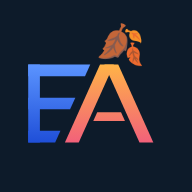
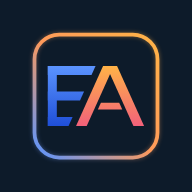
Icône de l'application : monogramme EA dans un cadre arrondi dégradé
- elite-adapt-icon.svg : EA dans un encadrement rond au contour dégradé
  bleu (bas-gauche) → orange (haut-droite), léger halo, sur fond sombre.
- PNG 192/512/180/32 régénérés.
- Manifeste : icônes en purpose "any" (plus de maskable) pour que le cadre
  ne soit pas rogné en cercle par le téléphone. Cache ?v=ea7, SW v7.

Claude-Session: https://claude.ai/code/session_01QakTk93iYZvV64rPhYwZKN

Changed region(s): [[0.125, 0.0938, 0.8438, 0.8438]]

diff --git a/index.html b/index.html
@@ -29,9 +29,9 @@
 <meta name="twitter:title" content="Elite Adapt - Suivi Sportif">
 <meta name="twitter:description" content="Coaching, programmes, RPE, wellness et nutrition.">
 <meta name="twitter:image" content="https://blueperf.vercel.app/og-image.png">
-<link rel="icon" href="/elite-adapt-icon.svg?v=ea6" type="image/svg+xml">
-<link rel="icon" href="/icons/icon-192.png?v=ea6">
-<link rel="apple-touch-icon" href="/icons/apple-touch-icon.png?v=ea6">
+<link rel="icon" href="/elite-adapt-icon.svg?v=ea7" type="image/svg+xml">
+<link rel="icon" href="/icons/icon-192.png?v=ea7">
+<link rel="apple-touch-icon" href="/icons/apple-touch-icon.png?v=ea7">
 <link rel="preconnect" href="https://fonts.googleapis.com">
 <link href="https://fonts.googleapis.com/css2?family=Space+Grotesk:wght@500;600;700&family=Inter:wght@400;500;600;700&display=swap" rel="stylesheet">
 <style>

diff --git a/sw.js b/sw.js
@@ -14,7 +14,7 @@
      on sert le cache tout de suite (rapide + hors-ligne) ET on rafraîchit en arrière-plan,
      donc le rechargement suivant a la version à jour.
    - /api/* : jamais touché (toujours réseau direct). */
-const CACHE = 'elite-adapt-shell-v6';
+const CACHE = 'elite-adapt-shell-v7';
 const PRECACHE = [
   '/offline.html',
   '/',
